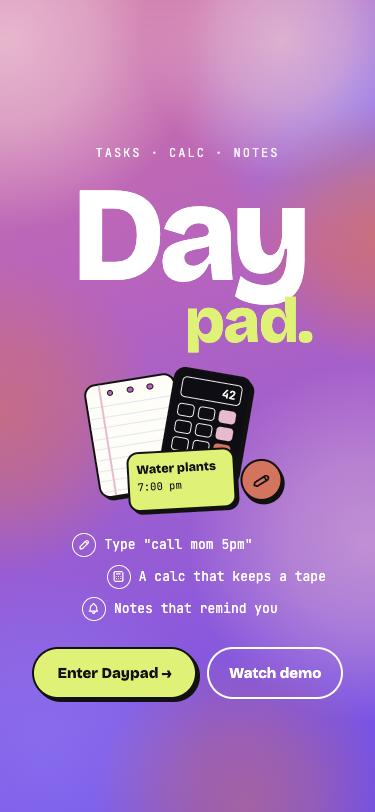
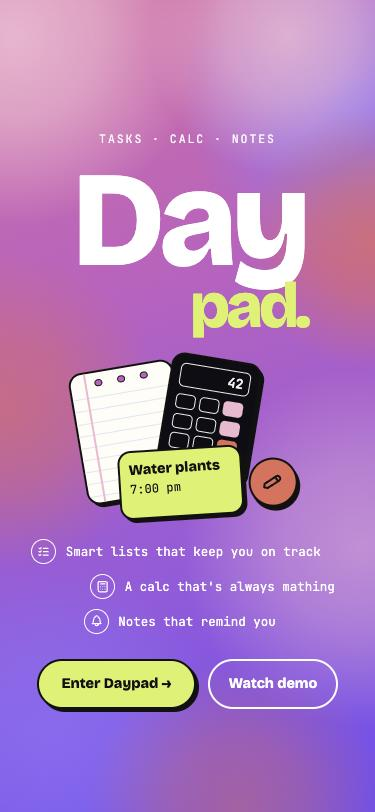
Landing: slower 5 s entrance, larger cluster, title-left wide layout
- One choreography table; everything eases in with a long ease-out and
  settles by about 5 s. Orbs fade in rather than zoom; exit takes 2.6 s and
  the tab bar glides open over 1.8 s.
- Tool cluster 15% larger at rest.
- On wide windows the title sits left of the cluster, list and buttons;
  phones and tablets keep the stacked layout.
- New phone and wide previews in docs/screenshots.

Changed region(s): [[0.088, 0.1539, 0.9387, 0.8929], [0.088, 0.6466, 0.1467, 0.7081]]

diff --git a/src/components/Landing.tsx b/src/components/Landing.tsx
@@ -5,7 +5,7 @@ import { LinearGradient } from 'expo-linear-gradient';
 import { useSafeAreaInsets } from 'react-native-safe-area-context';
 import { scheduleOnRN } from 'react-native-worklets';
 import Animated, {
-  Easing, FadeIn, FadeInDown, FadeInLeft, FadeInRight, FadeInUp, LinearTransition, ZoomIn,
+  Easing, FadeIn, FadeInDown, FadeInLeft, FadeInRight, FadeInUp, LinearTransition,
   interpolate, useAnimatedStyle, useReducedMotion, useSharedValue, withDelay, withRepeat, withTiming,
   type SharedValue,
 } from 'react-native-reanimated';
@@ -22,7 +22,19 @@ import { useUI } from '../store/ui';
 const FILL = ['#F25AA6', '#D650C4', '#A14FE2', '#6B47F5'] as const;
 const INK = palette.ink;
 const PAPER = '#FFFDF6';
-const ease = Easing.bezier(0.16, 1, 0.3, 1);
+const ease = Easing.bezier(0.22, 1, 0.36, 1); // ease-out-quint: long, soft landings
+
+/** Entrance choreography in ms ([delay, duration]); the whole scene settles in about 5 s. */
+const T = {
+  orb: (i: number) => [i * 220, 2600] as const,
+  kicker: [700, 1600] as const,
+  letter: (i: number) => [1000 + i * 260, 1800] as const,
+  pad: [1800, 1800] as const,
+  card: (k: number) => [2200 + k * 260, 1700] as const,
+  point: (i: number) => [3000 + i * 280, 1500] as const,
+  actions: [3700, 1500] as const,
+  exit: 2600,
+};
 
 type Orb = { x: number; y: number; r: number; color: string; o: number; home?: [number, number] };
 // x/y are fractions of the screen; `home` marks the orbs that settle into the app's corner cluster
@@ -85,7 +97,7 @@ function FloatingOrb({ orb, i, out, drift, reduce }: { orb: Orb; i: number; out:
     };
   });
   return (
-    <Animated.View entering={ZoomIn.delay(i * 110).duration(1400).easing(ease)} style={{ position: 'absolute', left: cx - r, top: cy - r }}>
+    <Animated.View entering={FadeIn.delay(T.orb(i)[0]).duration(T.orb(i)[1]).easing(ease)} style={{ position: 'absolute', left: cx - r, top: cy - r }}>
       <Animated.View style={style}>
         <OrbShape r={r} color={orb.color} id={`orb${i}`} />
       </Animated.View>
@@ -101,7 +113,7 @@ function Cluster({ s, drift }: { s: number; drift: SharedValue<number> }) {
   return (
     <Animated.View style={[{ width: 236 * s, height: 150 * s }, sway]} aria-hidden>
       {/* notepad */}
-      <Animated.View entering={FadeInUp.delay(1050).duration(900).easing(ease)} style={{ position: 'absolute', left: 18 * s, top: 8 * s }}>
+      <Animated.View entering={FadeInUp.delay(T.card(0)[0]).duration(T.card(0)[1]).easing(ease)} style={{ position: 'absolute', left: 18 * s, top: 8 * s }}>
         <View style={[card, { position: 'relative', width: 96 * s, height: 120 * s, backgroundColor: PAPER, transform: [{ rotate: '-10deg' }] }]}>
           {Array.from({ length: 9 }, (_, k) => <View key={k} style={{ position: 'absolute', left: 0, right: 0, top: (22 + k * 11) * s, height: 1, backgroundColor: '#DCE6F2' }} />)}
           <View style={{ position: 'absolute', left: 13 * s, top: 0, bottom: 0, width: 2, backgroundColor: palette.pink }} />
@@ -111,7 +123,7 @@ function Cluster({ s, drift }: { s: number; drift: SharedValue<number> }) {
         </View>
       </Animated.View>
       {/* calculator */}
-      <Animated.View entering={FadeInUp.delay(1200).duration(900).easing(ease)} style={{ position: 'absolute', left: 96 * s, top: 0 }}>
+      <Animated.View entering={FadeInUp.delay(T.card(1)[0]).duration(T.card(1)[1]).easing(ease)} style={{ position: 'absolute', left: 96 * s, top: 0 }}>
         <View style={[card, { position: 'relative', width: 82 * s, height: 110 * s, backgroundColor: palette.night, padding: 7 * s, transform: [{ rotate: '9deg' }] }]}>
           <View style={{ height: 22 * s, borderRadius: 5 * s, borderWidth: 1.5, borderColor: '#F4F1EA', alignItems: 'flex-end', justifyContent: 'center', paddingRight: 5 * s }}>
             <Text style={{ color: '#F4F1EA', fontFamily: font.monoBold, fontSize: 12 * s }}>42</Text>
@@ -124,14 +136,14 @@ function Cluster({ s, drift }: { s: number; drift: SharedValue<number> }) {
         </View>
       </Animated.View>
       {/* sticky note */}
-      <Animated.View entering={FadeInUp.delay(1350).duration(900).easing(ease)} style={{ position: 'absolute', left: 56 * s, top: 82 * s }}>
+      <Animated.View entering={FadeInUp.delay(T.card(2)[0]).duration(T.card(2)[1]).easing(ease)} style={{ position: 'absolute', left: 56 * s, top: 82 * s }}>
         <View style={[card, { position: 'relative', width: 112 * s, height: 62 * s, backgroundColor: palette.lime, padding: 8 * s, transform: [{ rotate: '-4deg' }] }]}>
           <Text style={{ fontFamily: font.black, fontSize: 13 * s, color: INK }}>Water plants</Text>
           <Text style={{ fontFamily: font.mono, fontSize: 11 * s, color: INK, marginTop: 3 * s }}>7:00 pm</Text>
         </View>
       </Animated.View>
       {/* pencil coin */}
-      <Animated.View entering={ZoomIn.delay(1500).duration(700).easing(ease)} style={{ position: 'absolute', left: 174 * s, top: 90 * s }}>
+      <Animated.View entering={FadeInUp.delay(T.card(3)[0]).duration(T.card(3)[1]).easing(ease)} style={{ position: 'absolute', left: 174 * s, top: 90 * s }}>
         <View style={[card, { position: 'relative', width: 44 * s, height: 44 * s, borderRadius: 22 * s, backgroundColor: palette.coral, alignItems: 'center', justifyContent: 'center', transform: [{ rotate: '12deg' }] }]}>
           <Pencil size={20 * s} color={INK} />
         </View>
@@ -141,9 +153,9 @@ function Cluster({ s, drift }: { s: number; drift: SharedValue<number> }) {
 }
 
 const points = [
-  { text: 'Smart lists that keep you on track', Icon: ListCheck, shift: -12, from: FadeInLeft },
-  { text: "A calc that's always mathing", Icon: Calc, shift: 26, from: FadeInRight },
-  { text: 'Notes that remind you', Icon: Bell, shift: -8, from: FadeInLeft },
+  { text: 'Smart lists that keep you on track', Icon: ListCheck, shift: -12 },
+  { text: "A calc that's always mathing", Icon: Calc, shift: 26 },
+  { text: 'Notes that remind you', Icon: Bell, shift: -8 },
 ];
 
 export function Landing() {
@@ -157,16 +169,17 @@ export function Landing() {
   const leaving = useRef(false);
 
   useEffect(() => {
-    if (!reduce) drift.value = withDelay(1200, withRepeat(withTiming(1, { duration: 6500, easing: Easing.inOut(Easing.sin) }), -1, true));
+    if (!reduce) drift.value = withDelay(4200, withRepeat(withTiming(1, { duration: 6500, easing: Easing.inOut(Easing.sin) }), -1, true));
   }, [reduce, drift]);
 
   // Everything scales from one factor set by the tighter of width and height, so the column grows
   // on big screens but always fits; each part has its own cap so nothing spreads past its margins.
-  const g = Math.min(W / 390, H / 820);
   const clamp = (v: number, lo: number, hi: number) => Math.max(lo, Math.min(hi, v));
-  const day = Math.min(W * 0.36, H * 0.19, 250); // title
-  const s = clamp(g, 0.85, 1.7); // tool cluster
-  const t = clamp(g, 0.95, 1.3); // body text and buttons
+  const wide = W >= 860 && W / H >= 1.15; // title moves left of the cluster, list and buttons
+  const g = wide ? Math.min(W / 1280, H / 800) : Math.min(W / 390, H / 820);
+  const day = wide ? clamp(Math.min(W * 0.17, H * 0.3), 150, 300) : Math.min(W * 0.36, H * 0.19, 250); // title
+  const s = wide ? clamp(g * 1.5, 1.15, 2) * 1.15 : clamp(g, 0.85, 1.7) * 1.15; // tool cluster, 15% fuller at rest
+  const t = wide ? clamp(g * 1.1, 1, 1.45) : clamp(g, 0.95, 1.3); // body text and buttons
   const gap = clamp(g, 0.85, 1.4); // vertical spacing
 
   // hover drift (web pointers): the title and cluster lean gently toward the cursor, in opposite directions
@@ -182,27 +195,27 @@ export function Landing() {
   const titleLean = useAnimatedStyle(() => ({ transform: [{ translateX: px.value * 10 }, { translateY: py.value * 6 }] }));
   const clusterLean = useAnimatedStyle(() => ({ transform: [{ translateX: -px.value * 14 }, { translateY: -py.value * 8 }, { rotate: `${px.value * 1.5}deg` }] }));
   const orbLean = useAnimatedStyle(() => ({ transform: [{ translateX: px.value * 18 }, { translateY: py.value * 12 }] }));
-  const glide = LinearTransition.duration(600).easing(ease);
+  const glide = LinearTransition.duration(900).easing(ease);
 
   const leave = (demo: boolean) => {
     if (leaving.current) return;
     leaving.current = true;
     const done = () => {
       close();
-      if (demo) setTimeout(openTour, 2000); // after the tab bar has glided open
+      if (demo) setTimeout(openTour, 2400); // after the tab bar has glided open
     };
-    out.value = withTiming(1, { duration: reduce ? 450 : 1700, easing: Easing.inOut(Easing.cubic) }, (f) => { if (f) scheduleOnRN(done); });
+    out.value = withTiming(1, { duration: reduce ? 450 : T.exit, easing: Easing.inOut(Easing.cubic) }, (f) => { if (f) scheduleOnRN(done); });
   };
 
   const fill = useAnimatedStyle(() => ({ opacity: interpolate(out.value, [0.2, 0.8], [1, 0], 'clamp') }));
   const content = useAnimatedStyle(() => ({
-    opacity: interpolate(out.value, [0, 0.35], [1, 0], 'clamp'),
-    transform: [{ translateY: interpolate(out.value, [0, 0.35], [0, -40], 'clamp') }],
+    opacity: interpolate(out.value, [0, 0.4], [1, 0], 'clamp'),
+    transform: [{ translateY: interpolate(out.value, [0, 0.4], [0, -32], 'clamp') }],
   }));
 
   return (
     <View style={StyleSheet.absoluteFill} accessibilityViewIsModal aria-modal onPointerMove={onPointerMove}>
-      <Animated.View entering={FadeIn.duration(500)} style={[StyleSheet.absoluteFill, fill]}>
+      <Animated.View entering={FadeIn.duration(1200)} style={[StyleSheet.absoluteFill, fill]}>
         <LinearGradient colors={FILL} locations={[0, 0.35, 0.7, 1]} start={{ x: 0.2, y: 0 }} end={{ x: 0.8, y: 1 }} style={StyleSheet.absoluteFill} />
       </Animated.View>
       <Animated.View style={[StyleSheet.absoluteFill, { overflow: 'hidden', pointerEvents: 'none' }, orbLean]}>
@@ -210,42 +223,53 @@ export function Landing() {
       </Animated.View>
 
       <Animated.View style={[styles.column, { paddingTop: insets.top + 24, paddingBottom: insets.bottom + 24 }, content]}>
-        <View style={{ flex: 1.35 }} />
-        <Animated.Text layout={glide} entering={FadeInDown.delay(350).duration(900).easing(ease)} style={[styles.kicker, { fontSize: 12 * t, letterSpacing: 2 * t }]}>Tasks · Calc · Notes</Animated.Text>
+        <View style={{ flex: wide ? 1.15 : 1.35 }} />
+        <Animated.View layout={glide} style={wide ? [styles.row, { gap: clamp(W * 0.06, 48, 120) }] : { alignItems: 'center' }}>
+          {/* title block: kicker, giant "Day", smaller "pad." */}
+          <Animated.View
+            layout={glide}
+            entering={wide ? FadeInRight.delay(T.kicker[0]).duration(T.pad[1] + 800).easing(ease) : undefined}
+            style={{ alignItems: wide ? 'flex-start' : 'center' }}
+          >
+            <Animated.Text entering={FadeInDown.delay(T.kicker[0]).duration(T.kicker[1]).easing(ease)} style={[styles.kicker, { fontSize: 12 * t, letterSpacing: 2 * t, marginLeft: wide ? day * 0.04 : 0 }]}>Tasks · Calc · Notes</Animated.Text>
+            <Animated.View accessible accessibilityRole="header" accessibilityLabel="Daypad" style={[{ alignItems: wide ? 'flex-start' : 'center', marginTop: 10 * gap }, titleLean]}>
+              <View style={{ flexDirection: 'row' }}>
+                {'Day'.split('').map((ch, i) => (
+                  <Animated.Text key={i} entering={FadeInDown.delay(T.letter(i)[0]).duration(T.letter(i)[1]).easing(ease)} style={[styles.day, { fontSize: day, lineHeight: day * 0.95, letterSpacing: -0.06 * day }]}>{ch}</Animated.Text>
+                ))}
+              </View>
+              <Animated.Text entering={FadeInRight.delay(T.pad[0]).duration(T.pad[1]).easing(ease)} style={[styles.pad, { fontSize: day * 0.46, lineHeight: day * 0.5, marginTop: -day * 0.08, marginLeft: day * 0.9, letterSpacing: -0.03 * day }]}>pad.</Animated.Text>
+            </Animated.View>
+          </Animated.View>
 
-        <Animated.View layout={glide} style={{ marginTop: 10 * gap }}>
-          <Animated.View accessible accessibilityRole="header" accessibilityLabel="Daypad" style={[{ alignItems: 'center' }, titleLean]}>
-            <View style={{ flexDirection: 'row' }}>
-              {'Day'.split('').map((ch, i) => (
-                <Animated.Text key={i} entering={FadeInDown.delay(500 + i * 120).duration(1000).easing(ease)} style={[styles.day, { fontSize: day, lineHeight: day * 0.95, letterSpacing: -0.06 * day }]}>{ch}</Animated.Text>
+          {/* content block: cluster, feature list, buttons */}
+          <Animated.View layout={glide} style={{ alignItems: wide ? 'flex-start' : 'center', marginTop: wide ? 0 : 18 * gap }}>
+            <Animated.View style={clusterLean}>
+              <Cluster s={s} drift={drift} />
+            </Animated.View>
+
+            <View style={{ alignItems: wide ? 'flex-start' : 'center', marginTop: 16 * gap + (wide ? 8 : 0), gap: 10 * t }}>
+              {points.map(({ text, Icon, shift }, i) => (
+                <Animated.View
+                  key={text}
+                  entering={(wide || i % 2 === 0 ? FadeInLeft : FadeInRight).delay(T.point(i)[0]).duration(T.point(i)[1]).easing(ease)}
+                  style={[styles.point, { gap: 10 * t }, !wide && { marginLeft: shift * t, marginRight: -shift * t }]}
+                >
+                  <View style={[styles.pointIcon, { width: 26 * t, height: 26 * t, borderRadius: 13 * t }]}><Icon size={14 * t} color="#fff" /></View>
+                  <Text style={[styles.pointText, { fontSize: 13 * t }]}>{text}</Text>
+                </Animated.View>
               ))}
             </View>
-            <Animated.Text entering={FadeInRight.delay(900).duration(1000).easing(ease)} style={[styles.pad, { fontSize: day * 0.46, lineHeight: day * 0.5, marginTop: -day * 0.08, marginLeft: day * 0.9, letterSpacing: -0.03 * day }]}>pad.</Animated.Text>
-          </Animated.View>
-        </Animated.View>
 
-        <Animated.View layout={glide} style={{ alignItems: 'center', marginTop: 18 * gap }}>
-          <Animated.View style={clusterLean}>
-            <Cluster s={s} drift={drift} />
-          </Animated.View>
-        </Animated.View>
-
-        <Animated.View layout={glide} style={{ alignItems: 'center', marginTop: 16 * gap, gap: 8 * t }}>
-          {points.map(({ text, Icon, shift, from }, i) => (
-            <Animated.View key={text} entering={from.delay(1450 + i * 150).duration(900).easing(ease)} style={[styles.point, { gap: 8 * t, marginLeft: shift * t, marginRight: -shift * t }]}>
-              <View style={[styles.pointIcon, { width: 24 * t, height: 24 * t, borderRadius: 12 * t }]}><Icon size={13 * t} color="#fff" /></View>
-              <Text style={[styles.pointText, { fontSize: 13 * t }]}>{text}</Text>
+            <Animated.View entering={FadeInDown.delay(T.actions[0]).duration(T.actions[1]).easing(ease)} style={[styles.actions, { marginTop: 26 * gap, gap: 12 * t, justifyContent: wide ? 'flex-start' : 'center' }]}>
+              <Bouncy accessibilityRole="button" accessibilityLabel="Enter Daypad" onPress={() => leave(false)} style={[styles.enter, { height: 52 * t, borderRadius: 26 * t, paddingHorizontal: 24 * t, boxShadow: `3px 3px 0px ${INK}` }]}>
+                <Text style={[styles.enterText, { fontSize: 15 * t }]}>Enter Daypad →</Text>
+              </Bouncy>
+              <Bouncy accessibilityRole="button" accessibilityLabel="Watch demo: enter Daypad with a guided tour" onPress={() => leave(true)} style={[styles.demo, { height: 52 * t, borderRadius: 26 * t, paddingHorizontal: 20 * t }]}>
+                <Text style={[styles.demoText, { fontSize: 15 * t }]}>Watch demo</Text>
+              </Bouncy>
             </Animated.View>
-          ))}
-        </Animated.View>
-
-        <Animated.View layout={glide} entering={FadeInDown.delay(1950).duration(900).easing(ease)} style={[styles.actions, { marginTop: 26 * gap, gap: 10 * t }]}>
-          <Bouncy accessibilityRole="button" accessibilityLabel="Enter Daypad" onPress={() => leave(false)} style={[styles.enter, { height: 52 * t, borderRadius: 26 * t, paddingHorizontal: 24 * t, boxShadow: `3px 3px 0px ${INK}` }]}>
-            <Text style={[styles.enterText, { fontSize: 15 * t }]}>Enter Daypad →</Text>
-          </Bouncy>
-          <Bouncy accessibilityRole="button" accessibilityLabel="Watch demo: enter Daypad with a guided tour" onPress={() => leave(true)} style={[styles.demo, { height: 52 * t, borderRadius: 26 * t, paddingHorizontal: 20 * t }]}>
-            <Text style={[styles.demoText, { fontSize: 15 * t }]}>Watch demo</Text>
-          </Bouncy>
+          </Animated.View>
         </Animated.View>
         <View style={{ flex: 1 }} />
       </Animated.View>
@@ -261,7 +285,8 @@ const styles = StyleSheet.create({
   point: { flexDirection: 'row', alignItems: 'center', gap: 8 },
   pointIcon: { width: 24, height: 24, borderRadius: 12, borderWidth: 1.5, borderColor: '#fff', alignItems: 'center', justifyContent: 'center' },
   pointText: { fontFamily: font.mono, fontSize: 13, color: '#fff' },
-  actions: { flexDirection: 'row', gap: 10, marginTop: 26, flexWrap: 'wrap', justifyContent: 'center' },
+  row: { flexDirection: 'row', alignItems: 'center', justifyContent: 'center' },
+  actions: { flexDirection: 'row', flexWrap: 'wrap' },
   enter: { height: 52, paddingHorizontal: 24, borderRadius: 26, borderWidth: 2, borderColor: INK, backgroundColor: palette.lime, alignItems: 'center', justifyContent: 'center' },
   enterText: { fontFamily: font.black, fontSize: 15, color: INK },
   demo: { height: 52, paddingHorizontal: 20, borderRadius: 26, borderWidth: 2, borderColor: '#fff', alignItems: 'center', justifyContent: 'center' },

diff --git a/src/components/TabBar.tsx b/src/components/TabBar.tsx
@@ -15,7 +15,7 @@ const tabs: { key: Tab; label: string }[] = [
 
 const PAD = 4;
 // long ease-out: the bar glides open and settles without a bounce
-const intro = { duration: 1400, easing: Easing.bezier(0.16, 1, 0.3, 1) };
+const intro = { duration: 1800, easing: Easing.bezier(0.16, 1, 0.3, 1) };
 
 /**
  * Pill tab bar; the dark indicator slides between tabs on a spring.
